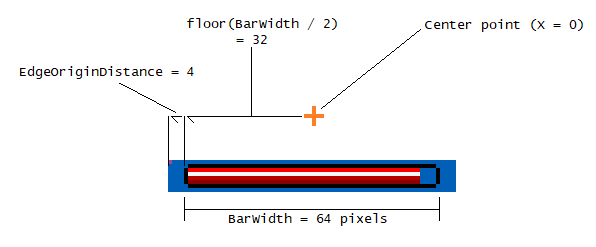
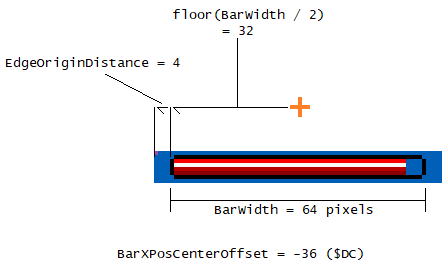
update
-I added on how to offset from the sprite's origin position to the center. Shouldn't be hard.

-Images have been improved and useless info removed.

-Navigation links added.

diff --git a/readme_files/GMKBossSummary.html b/readme_files/GMKBossSummary.html
@@ -25,13 +25,20 @@
 <body>
 
 <h1><center>Giant Masked Koopa boss summary</center></h1>
+<h2>Quick Links</h2>
+<ul>
+<li><a href="#HealthDamageTrack" id="HealthDamageTrack_Back">Getting it to represent its HP</a></li>
+<li><a href="#Graphics" id="Graphics_Back">Graphics</a></li>
+<li><a href="#LastStuffOnOAM" id="LastStuffOnOAM_Back">Last bits of handling OAM</a></li>
+<li><a href="#Other" id="Other_Back">Other information</a></li>
+</ul>
 
 <p>This document is a summary of how I implement the non-static
 (placed on the body of the sprite rather than a fixed position on the screen) sprite-based HP bar for the giant masked koopa boss.</p>
 
 <h2>Getting it to represent its HP</h2>
 
-<h3>The value representing its damage/HP</h3>
+<h3><a href="#HealthDamageTrack_Back" id="HealthDamageTrack">^</a>The value representing its damage/HP</h3>
 <p>There has to be some sort of information stored of some value tracking its HP, else technically it would have infinite HP or just die in one hit:
 <ul>
 	<li>This value could start at 0, and increases (commonly by 1) on damage until it hits a certain value, and it dies-- also known as a damage counter.</li><br>
@@ -66,7 +73,7 @@ when it crashes into a wall, it dies).<br><br>
 
 Now how do we display this? Well <i>displaying</i> HP is just merely using graphics to show to the player. Therefore, we should go to its graphics routine, the area
 that draws stuff on to the screen.</p>
-<h3>Graphics</h3>
+<h3><a href="#Graphics_Back" id="Graphics">^</a>Graphics</h3>
 <p>Like most ASM files, they often use labels and comments making it easier for the programmer to understand how the code runs. This shouldn't be hard to find its graphics
 routine, we can CTRL+F &ldquo;<kbd>Graphics</kbd>&rdquo; and...
 <table><tr><td><pre>;;;;;;;;;;;;;;;;;;;;;;;;;;;;;;;;;;;;;;;;;;;;;;;;;;;;;;;;;;;;;;;;;;;;;;;;;;;;;;;;;;;;;;;;;;
@@ -292,7 +299,7 @@ or <kbd>DrawSpriteGraphicalBarVert</kbd></a> prior calling it:
 The comments should explain everything. Of course, there is no issue of having what's marked in red to be placed from before calling <kbd>%GetDrawInfo()</kbd> to after it (like I said, it only uses Y, $00, and $01, nothing else).<br><br>
 
 </p>
-<h3>The last bits of handling OAM</h3>
+<h3><a href="#LastStuffOnOAM_Back" id="LastStuffOnOAM">^</a>The last bits of handling OAM</h3>
 <h4>8x8 and 16x16 tiles used together</h4>
 <p>Like I said, most sprites on SMWC is made up of 16x16, and the bar itself are 8x8s, so it is a sprite of a mixture of both, so we need to manually set the size bit:
 <table><tr><td><pre>    LDA ($08),y
@@ -353,9 +360,11 @@ again, the comments should explain everything. If you are wondering how does the
   endif
   !GiantMaskedKoopa_GraphicalBar_TotalTiles = !GiantMaskedKoopa_GraphicalBar_LeftEndExist+!GiantMaskedKoopa_GraphicalBar_MiddleExist+!GiantMaskedKoopa_GraphicalBar_RightEndExist</pre></td></tr></table><br>
 Which is found in <kbd>SMW-Graphical-bar-display/GraphicalBarDefines/SpriteOAMSettings.asm</kbd>.</p>
-<h3>Other information</h3>
+<h3><a href="#Other_Back" id="Other">^</a>Other information</h3>
 <ul>
-<li>If you are trying to figure out at what X and Y position to place the bar, chances are that you'll need to trial-and-error this. How I discover its origin point (the XY position having a (0,0) offset from $E4/$14E0 $D8/$14D4) was by setting the position of the boss using uberasm tool code every frame:
+	<li>
+		If you are trying to figure out at what X and Y position to place the bar, chances are that you'll need to trial-and-error this. How I discover its origin point (the XY position having a (0,0) offset
+		from $E4/$14E0 $D8/$14D4) was by setting the position of the boss using uberasm tool code every frame:
 <table><tr><td><pre>;Note, it does this within a screen boundary, for the sake of simplicity!
 ;Run this in main (every frame), not init!
 	LDX #!sprite_slots-1
@@ -366,34 +375,55 @@ Which is found in <kbd>SMW-Graphical-bar-display/GraphicalBarDefines/SpriteOAMSe
 	BPL -
 	RTL
 ;xx and yy are the level coordinates (low byte). Use LM's coordinate display at the bottom-left corner, multiply by $10 (or 16 in decimal) to convert from 16x16 blocks to pixel coordinates.</pre></td></tr></table><br>
-And arranged the blocks to mark its position. NOTE: while uberasm tool will lock its XY position, the sprite's movement (routine <kbd>$01802A</kbd>) code may displace it's position by a few pixels (such as gravity making
-the sprite 1 pixel lower).
+		And arranged the blocks to mark its position.<br><br>
 
-, and the top-left of where the fill starts at
-is where that purple cross shown on the image below (which also shows how the offsets are correctly positioned):<br>
-<img src="GraphicalBar_Offsetting_GMK.png"><br>
-The purple dot on the top-left of the bar is just to show the bar's origin position.<br><br>
+		NOTE: despite uberasm tool will lock its XY position, the sprite's movement (routine <kbd>$01802A</kbd>) code may displace it's position by a few pixels (such as gravity making
+		the sprite 1 pixel lower). After discovering its XY origin position, I show off this image of where it is:
+		The purple cross represents its origin position, while the white box is just a reference with the common 16x16 tiles:<br>
+		<img src="GraphicalBar_Offsetting_GMK.png"><br>
+		The purple dot on the top-left of the bar is just to show the bar's origin position.<br><br>
 
-An easier method of solving the X position of the bar where it should be is by using these formulas:
-<ul>
-<li><kbd>BarXPosOffset</kbd> is the offset (can be negative), from its center point (represented as an orange cross).</li>
-<li><kbd>floor(x)</kbd> means round a number that is between 2 closest integers to the highest integer less than or equal to x.</li>
-<li><kbd>BarWidth</kbd> means the width of the bar, in pixels. Note: we don't necessarily count the 8x8 bounding box, the bar itself:<br>
-<img src="BarWidth.png"><br>
-This does matter if you have left end and right end both nonzero and also not having the same number of pieces.</li>
-<li><kbd>EdgeOriginDistance</kbd> is the horizontal distance between the origin position of the bar (the purple dot/pixel) and the edge of the bar:<br>
-<img src="EdgeOriginDistance.png">
-</li>
-</ul>
-<table>
-<tr>
-<td><pre>BarXPosOffset = 0 - (floor(BarWidth / 2)) - EdgeOriginDistance</pre></td>
-<td><img src="GraphicalBarOAM_CenterOffsetting.png"></td>
-</tr>
-<tr>
-<td><pre>BarXPosOffset = 0 + (floor(BarWidth / 2)) - EdgeOriginDistance</pre></td>
-<td><img src="GraphicalBarOAM_CenterOffsetting_Leftwards.png"></td>
-</tr>
-</table>
-</li>
+		An easier method of solving the X position of the bar to center a given point is by using this formula:<br><br>
+
+		<kbd>BarXPosition = GetToCenterOfSprite + BarXPosCenterOffset</kbd><br><br>
+		
+		Note: Signed means a variable can be negative, indicating a leftwards movement.<br><br>
+
+		Where:
+		<ul>
+				<li>
+					<kbd>GetToCenterOfSprite</kbd>: (signed) A displacement from the sprite's origin point to the actual center of the sprite's body:<br>
+					<img src="GetToCenterOfSprite.png">
+				</li>
+				<li><kbd>BarXPosCenterOffset</kbd>: (signed) an offset from its center point (represented as an orange cross) to the bar's origin point. This differs depending on the direction of the bar:
+				<table>
+					<tr>
+						<th>Direction</th>
+						<th>Formula</th>
+						<th>Example</th>
+					</tr>
+					<tr>
+						<th>Rightwards (left to right)</th>
+						<td><kbd>BarXPosCenterOffset = 0 - (floor(BarWidth / 2)) - EdgeOriginDistance</kbd></td>
+						<td><img src="GraphicalBarOAM_CenterOffsetting.png"></td>
+					</tr>
+					<tr>
+						<th>Leftwards (right to left)</th>
+						<td><kbd>BarXPosCenterOffset = 0 + (floor(BarWidth / 2)) - EdgeOriginDistance</kbd></td>
+						<td><img src="GraphicalBarOAM_CenterOffsetting_Leftwards.png"></td>
+					</tr>
+				</table>
+		Where:
+				<ul>
+					<li><kbd>floor(x)</kbd> is a function that rounds a number that is between 2 closest integers to the highest integer less than or equal to x.</li>
+					<li><kbd>BarWidth</kbd> means the width of the bar, in pixels. Note: we don't necessarily count the 8x8 bounding box, the bar itself:<br>
+					<img src="BarWidth.png"><br>
+					This does matter if you have left end and right end both nonzero and also not having the same number of pieces.</li>
+					<li><kbd>EdgeOriginDistance</kbd> is the horizontal distance between the origin position of the bar (the purple dot/pixel) and the edge of the bar:<br>
+						<img src="EdgeOriginDistance.png">
+					</li>
+				</ul>
+			</li>
+		</ul>
+	</li>
 </ul>
